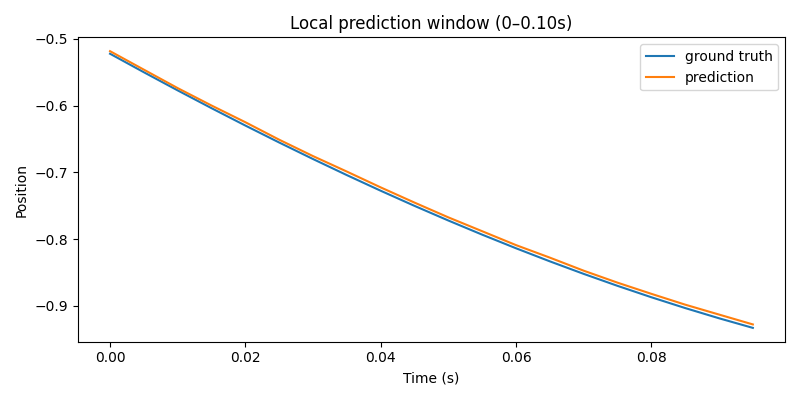
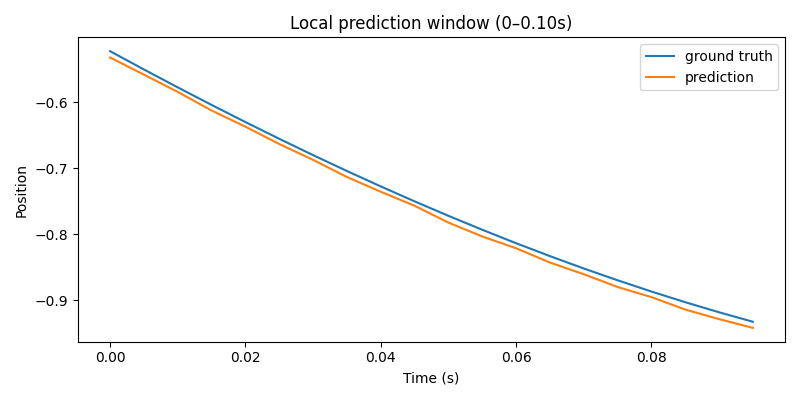
Added xv mlp result with eq6

diff --git a/Realistic_Analytics/training.py b/Realistic_Analytics/training.py
@@ -130,59 +130,25 @@ def train_model(
 
 if __name__ == "__main__":
     # Choose one:
-    dataset_path1 = "./data/dataset_phase_trig_freq.pt"
-    model_save_path1 = "./models/mlp_phase_trig_freq.pt"
+    dataset_path = "./data/xv/dataset_phase_freq.pt"
+    model_save_path = "./models/mlp_phase_freq.pt"
 
-    data2 = "./data/dataset_state_phase_trig_freq.pt"
-    model_save_path2 = "./models/mlp_state_phase_trig_freq.pt"
-
-    data3 = "./data/dataset_phase_freq.pt"
-    model_save_path3 = "./models/mlp_phase_freq.pt"
-
-    dataset_path = "./data/dataset_state_phase_freq.pt"
-    model_save_path = "./models/mlp_state_phase_freq.pt"
-
-
-    data4 = "./data/x/dataset_state_phase_trig_freq.pt"
-    model_save_path4 = "./models/x/mlp_state_phase_trig_freq.pt"
-
-    data5 = "./data/x/dataset_phase_freq.pt"
-    model_save_path5 = "./models/x/mlp_phase_freq.pt"
-
-    dataset_path6 = "./data/x/dataset_state_phase_freq.pt"
-    model_save_path6 = "./models/x/mlp_state_phase_freq.pt"
-
-
-
-    dataset = [data3, dataset_path, data4, data5, dataset_path6]
-    model_save = [model_save_path3, model_save_path, model_save_path4, model_save_path5, model_save_path6]
+    # dataset_path = "./data/dataset_state_phase_freq.pt"
+    # model_save_path = "./models/mlp_state_phase_freq.pt"
 
     device = torch.device("cuda" if torch.cuda.is_available() else "cpu")
     print("Using device:", device)
 
-    for ds_path, model_path in zip(dataset, model_save):
-        print(f"\nTraining on dataset: {ds_path}")
-        print(f"Model will be saved to: {model_path}")
         
-        model, X, Y, metadata, train_losses, val_losses, device = train_model(
-            dataset_path=ds_path,
-            model_save_path=model_path,
-            train_cfg=get_mlp_config(),
-            device=device,
-        )
+    model, X, Y, metadata, train_losses, val_losses, device = train_model(
+        dataset_path=dataset_path,
+        model_save_path=model_save_path,
+        train_cfg=get_mlp_config(),
+        device=device,
+    )
 
-        if "x" in model_path: 
-            path_save = f"graphs/{Path(model_path).stem}_x"
-        else: 
-            path_save = f"graphs/{Path(model_path).stem}"
-
-        plot_losses(train_losses, val_losses, save_path=f"{path_save}")
-        plot_predictions(model, X, Y, device, save_path=f"{path_save}")
-        plot_full_trajectory(model, X, Y, metadata, device, save_path=f"{path_save}")
-        plot_dataset_samples(Y, metadata, num_points=2000, save_path=f"{path_save}")
-
-
-    model, checkpoint = load_model(model_save_path, device=device)
-
-    horizon = checkpoint["metadata"]
-    print("Horizon:", horizon)
+    path_save = "./graphs/mlp_phase_freq"
+    plot_losses(train_losses, val_losses, save_path=f"{path_save}")
+    plot_predictions(model, X, Y, device, metadata["predict_velocity"], metadata["horizon"], save_path=f"{path_save}")
+    plot_full_trajectory(model, X, Y, metadata, device, save_path=f"{path_save}")
+    # plot_dataset_samples(Y, metadata, num_points=2000, save_path=f"{path_save}")

diff --git a/Realistic_Analytics/src/data/generate_dataset.py b/Realistic_Analytics/src/data/generate_dataset.py
@@ -64,14 +64,19 @@ def build_dataset_from_many_rollouts(
 if __name__ == "__main__":
     cfg = get_config()
 
+    name1 = "phase_trig_freq"
+    name2 = "state_phase_trig_freq"
+    velocity = True
+    sin_cos = True
+
     # 1) phase + frequency only
     ds_phase = build_dataset_from_many_rollouts(
         cfg,
         num_rollouts=50,
         horizon=20,
         condition_mode="phase_freq",
-        predict_velocity=True,
-        use_sin_cos_phase=True,
+        predict_velocity=velocity,
+        use_sin_cos_phase=sin_cos,
     )
 
     # 2) state + phase + frequency
@@ -80,40 +85,40 @@ if __name__ == "__main__":
         num_rollouts=50,
         horizon=20,
         condition_mode="state_phase_freq",
-        predict_velocity=True,
-        use_sin_cos_phase=True,
+        predict_velocity=velocity,
+        use_sin_cos_phase=sin_cos,
     )
 
     path_data_dir = "data"
 
     save_dataset_to_pt(
         ds_phase,
-        f"{path_data_dir}/dataset_phase_trig_freq.pt",
+        f"{path_data_dir}/dataset_{name1}.pt",
         metadata={
             "T": cfg.T,
             "dt": cfg.dt,
             "N": cfg.N,
             "horizon": 20,
-            "condition_mode": "phase_freq",
-            "predict_velocity": True,
+            "condition_mode": name1,
+            "predict_velocity": velocity,
             "flatten_target": True,
-            "use_sin_cos_phase": True,
+            "use_sin_cos_phase": sin_cos,
             "num_rollouts": 50,
         },
     )
 
     save_dataset_to_pt(
         ds_state,
-        f"{path_data_dir}/dataset_state_phase_trig_freq.pt",
+        f"{path_data_dir}/dataset_{name2}.pt",
         metadata={
             "T": cfg.T,
             "dt": cfg.dt,
             "N": cfg.N,
             "horizon": 20,
-            "condition_mode": "state_phase_freq",
-            "predict_velocity": True,
+            "condition_mode": name2,
+            "predict_velocity": velocity,
             "flatten_target": True,
-            "use_sin_cos_phase": True,
+            "use_sin_cos_phase": sin_cos,
             "num_rollouts": 50,
         },
     )

diff --git a/Realistic_Analytics/src/models/mlp.py b/Realistic_Analytics/src/models/mlp.py
@@ -30,6 +30,10 @@ class MLP(nn.Module):
 
 class MLPReferenceGenerator:
     def __init__(self, model, condition_mode, predict_mode, horizon, dt, device):
+        '''condition_mode: "phase_freq", "state_phase_freq", "phase_trig_freq", "state_phase_trig_freq"
+           predict_mode:    True, model predicts both x and v
+                            False, model predicts only x and we derive v from x'''
+        
         self.model = model
         self.condition_mode = condition_mode
         self.predict_mode = predict_mode
@@ -52,6 +56,7 @@ class MLPReferenceGenerator:
     @torch.no_grad()
     def predict_future(self, x, v, phi, phi_dot):
         inp = self.build_input(x, v, phi, phi_dot)
+
         pred = self.model(inp).squeeze(0)
         return pred
 

diff --git a/Realistic_Analytics/src/utils/plotting.py b/Realistic_Analytics/src/utils/plotting.py
@@ -136,7 +136,7 @@ def plot_losses(train_losses, val_losses, save_path="graphs"):
     plt.savefig(f"{save_path}_training_loss.png")
 
 
-def plot_predictions(model, X, Y, device, dt=0.005, idx=1000, save_path="graphs"):
+def plot_predictions(model, X, Y, device, predict_velocity=False, horizon=20, dt=0.005, idx=1000, save_path="graphs"):
     model.eval()
 
     with torch.no_grad():
@@ -144,6 +144,10 @@ def plot_predictions(model, X, Y, device, dt=0.005, idx=1000, save_path="graphs"
         y_true = Y[idx].cpu().numpy()
         y_pred = model(x).squeeze(0).cpu().numpy()
 
+    if predict_velocity: 
+        y_true = y_true[:horizon]
+        y_pred = y_pred[:horizon]
+        
     t_future = torch.arange(len(y_true)) * dt
 
     plt.figure(figsize=(8, 4))

diff --git a/Realistic_Analytics/src/simulation/run_sim.py b/Realistic_Analytics/src/simulation/run_sim.py
@@ -33,7 +33,8 @@ def main():
 
     x, v, phi, omega = initialize_states(cfg)
 
-    model_path = "checkpoints/mlp_state_phase_freq.pt"
+    # mode: sinusoidal, or mlp
+    model_path = "models/xv/mlp_phase_trig_freq.pt"
     oscillators, ref_gen, ctrl, sync_ctrl, omega = initialize_modules(cfg, "mlp", model_path, omega)
     
     results = run_simulation(cfg, oscillators, ref_gen, ctrl, sync_ctrl,
